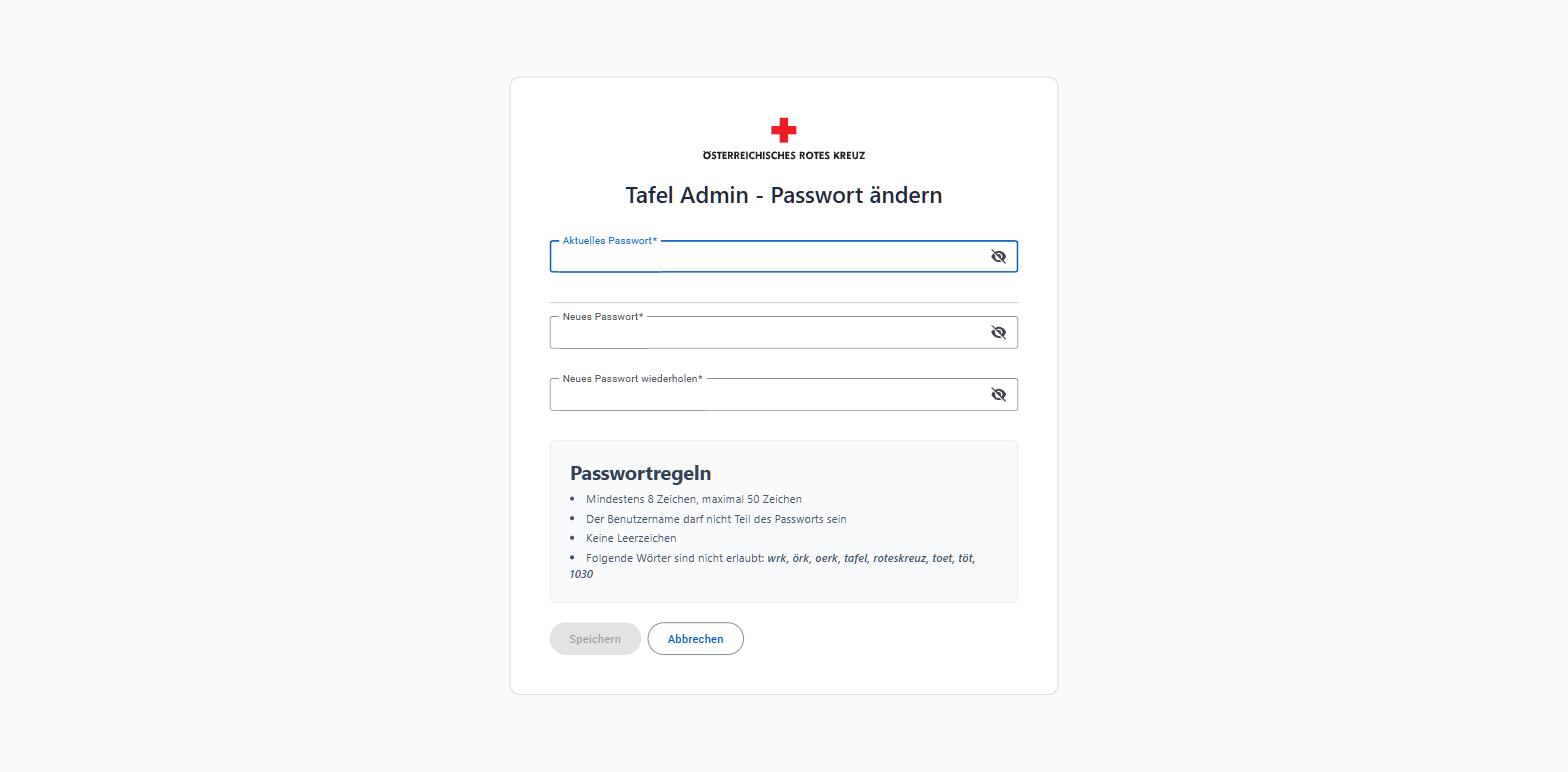
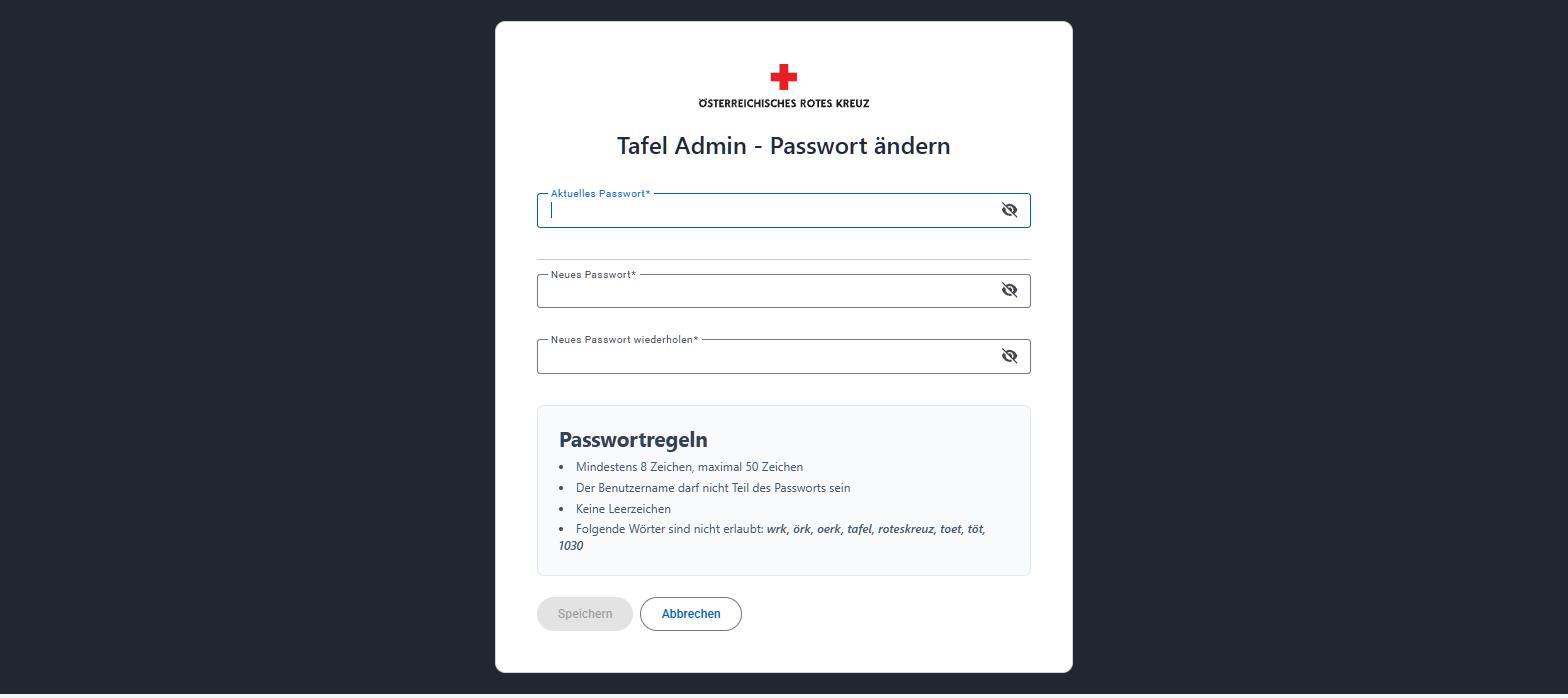
fix(frontend): use dark login background on password-change and error pages
Aligns the forced login-passwordchange page and the 404/500 error pages
with the login page's dark background, adjusting text colors on the
error pages for contrast.

diff --git a/frontend/src/main/webapp/src/app/common/views/error/500.component.html b/frontend/src/main/webapp/src/app/common/views/error/500.component.html
@@ -1,15 +1,15 @@
-<div class="min-h-screen flex flex-row items-center bg-slate-50">
+<div class="min-h-screen flex flex-row items-center bg-[var(--tafel-background-secondary)]">
   <div class="w-full max-w-6xl mx-auto px-6">
     <div class="flex justify-center">
       <div class="w-full md:w-1/2">
         <div class="flex flex-col md:flex-row items-center md:items-start gap-6">
-          <h1 testid="status" class="text-7xl font-light text-slate-800 leading-none">500</h1>
+          <h1 testid="status" class="text-7xl font-light text-white leading-none">500</h1>
 
-          <div class="hidden md:block self-stretch w-px bg-slate-300 mx-2"></div>
+          <div class="hidden md:block self-stretch w-px bg-gray-700 mx-2"></div>
 
           <div class="flex flex-col pt-1">
-            <h4 testid="title" class="mat-h4 text-xl font-semibold mb-1">Houston, wir haben ein Problem!</h4>
-            <p testid="subtitle" class="text-slate-500 italic">Interner Server Fehler</p>
+            <h4 testid="title" class="mat-h4 text-xl font-semibold mb-1 text-white">Houston, wir haben ein Problem!</h4>
+            <p testid="subtitle" class="text-gray-300 italic">Interner Server Fehler</p>
           </div>
         </div>
       </div>

diff --git a/frontend/src/main/webapp/src/app/common/views/error/404.component.html b/frontend/src/main/webapp/src/app/common/views/error/404.component.html
@@ -1,15 +1,15 @@
-<div class="min-h-screen flex flex-row items-center bg-slate-50">
+<div class="min-h-screen flex flex-row items-center bg-[var(--tafel-background-secondary)]">
   <div class="w-full max-w-6xl mx-auto px-6">
     <div class="flex justify-center">
       <div class="w-full md:w-1/2">
         <div class="flex flex-col md:flex-row items-center md:items-start gap-6">
-          <h1 testid="status" class="text-7xl font-light text-slate-800 leading-none">404</h1>
+          <h1 testid="status" class="text-7xl font-light text-white leading-none">404</h1>
 
-          <div class="hidden md:block self-stretch w-px bg-slate-300 mx-2"></div>
+          <div class="hidden md:block self-stretch w-px bg-gray-700 mx-2"></div>
 
           <div class="flex flex-col pt-1">
-            <h4 testid="title" class="mat-h4 text-xl font-semibold mb-1">Seite nicht gefunden</h4>
-            <p testid="subtitle" class="text-slate-500 italic">Diese Bananenkiste ist wohl leer</p>
+            <h4 testid="title" class="mat-h4 text-xl font-semibold mb-1 text-white">Seite nicht gefunden</h4>
+            <p testid="subtitle" class="text-gray-300 italic">Diese Bananenkiste ist wohl leer</p>
           </div>
         </div>
       </div>

diff --git a/frontend/src/main/webapp/src/app/common/views/login-passwordchange/login-passwordchange.component.html b/frontend/src/main/webapp/src/app/common/views/login-passwordchange/login-passwordchange.component.html
@@ -1,4 +1,4 @@
-<div class="min-h-screen flex items-center justify-center bg-slate-50 p-6">
+<div class="min-h-screen flex items-center justify-center bg-[var(--tafel-background-secondary)] p-6">
   <div class="w-full max-w-2xl">
     <mat-card class="p-6 md:p-8 shadow-md">
       <mat-card-content>
